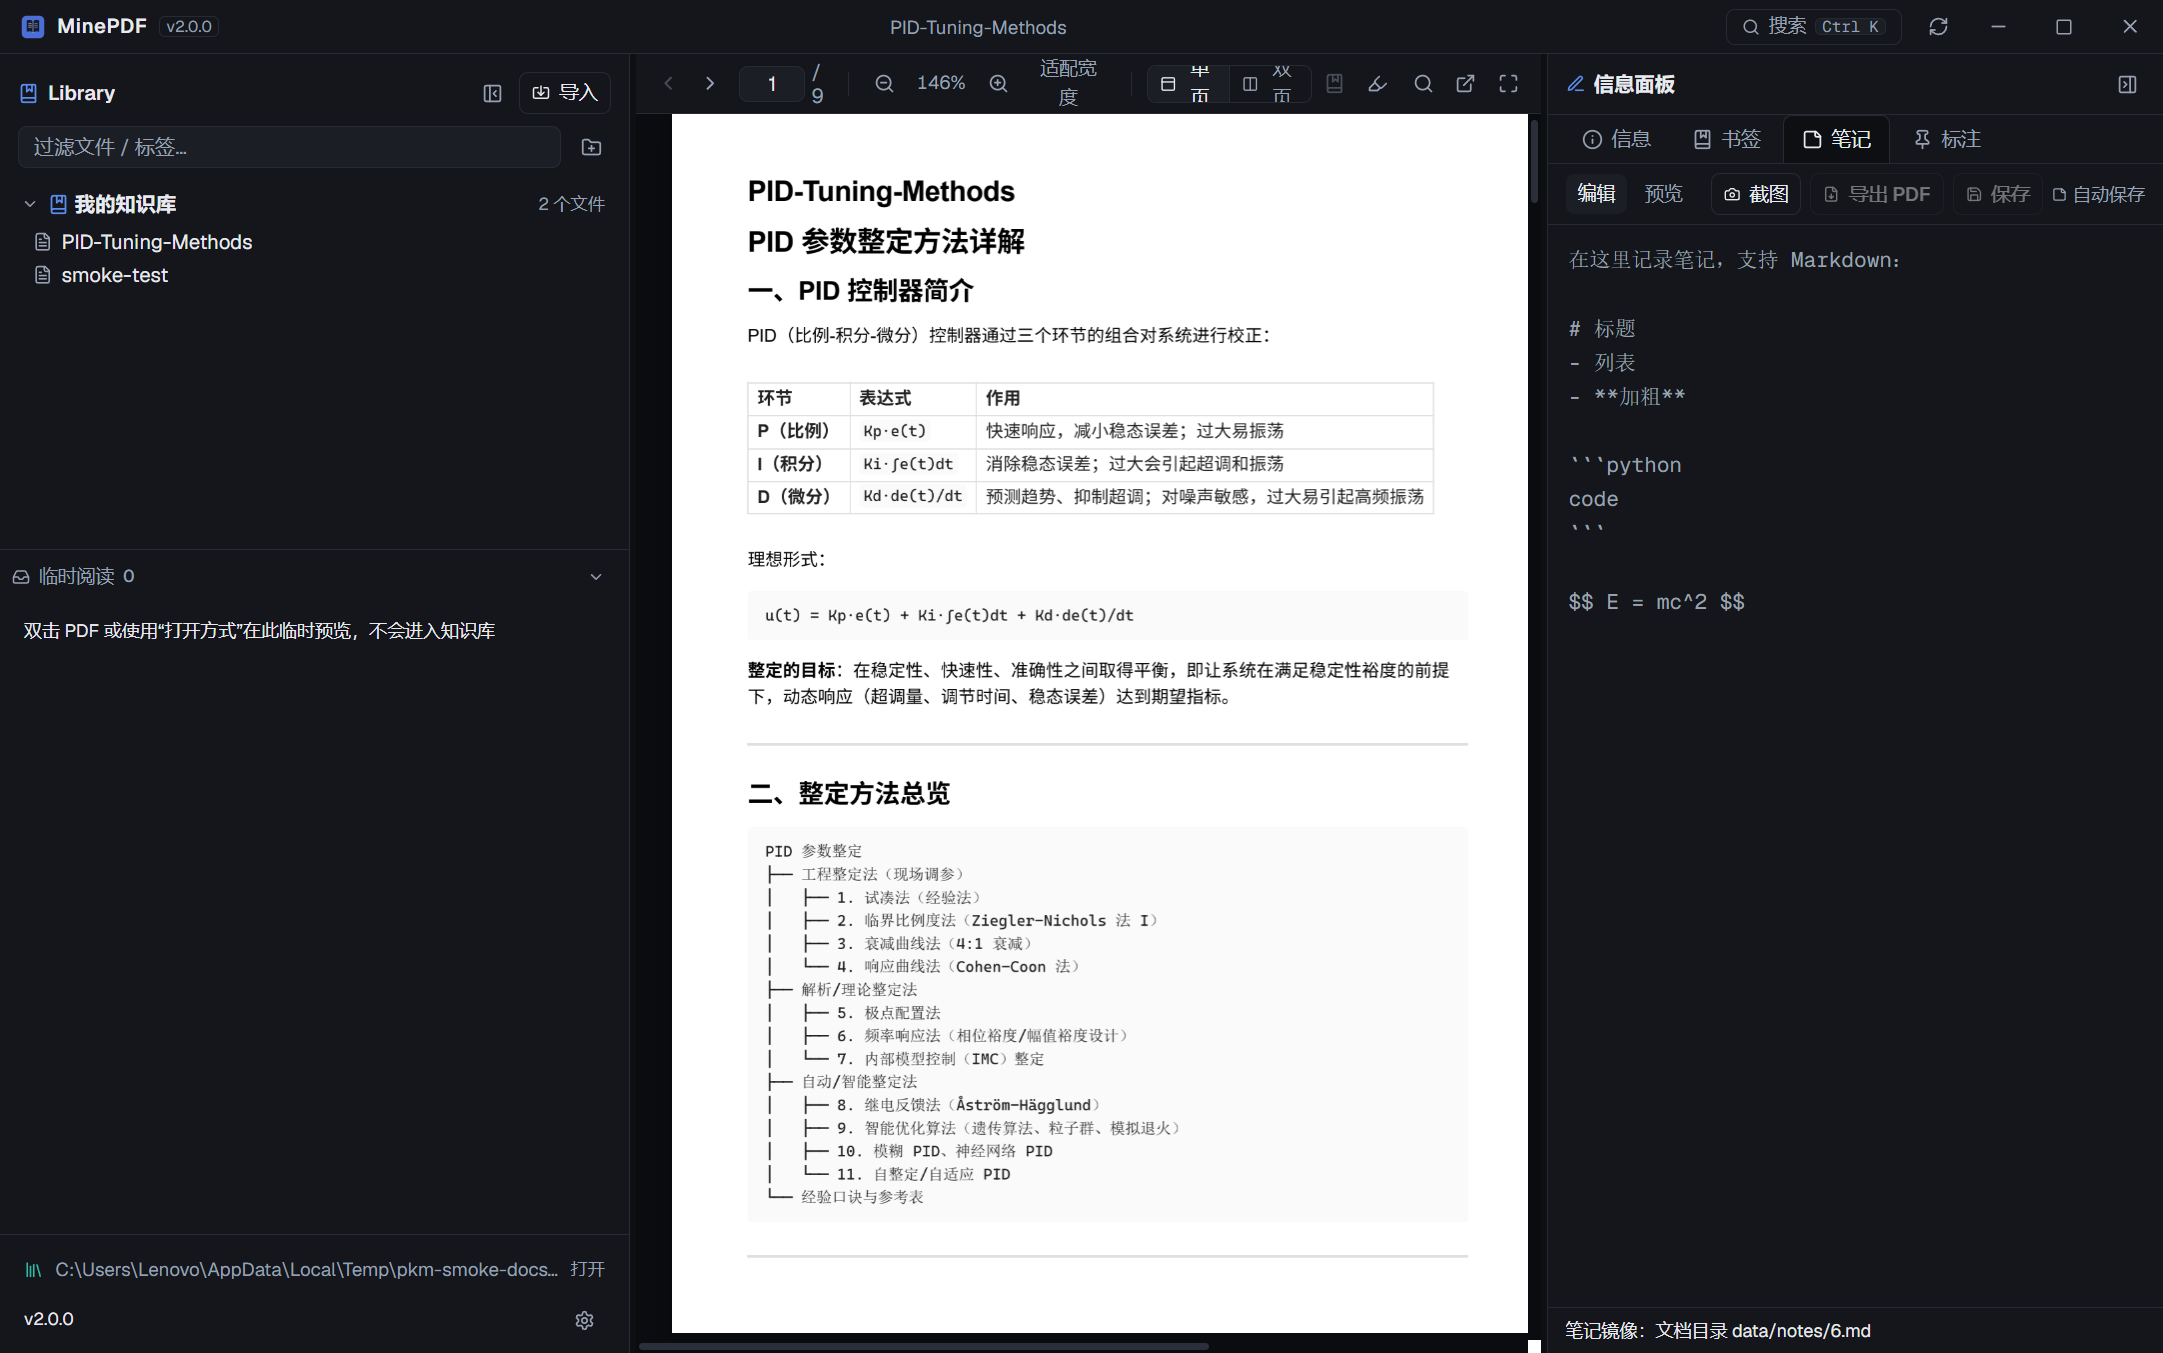
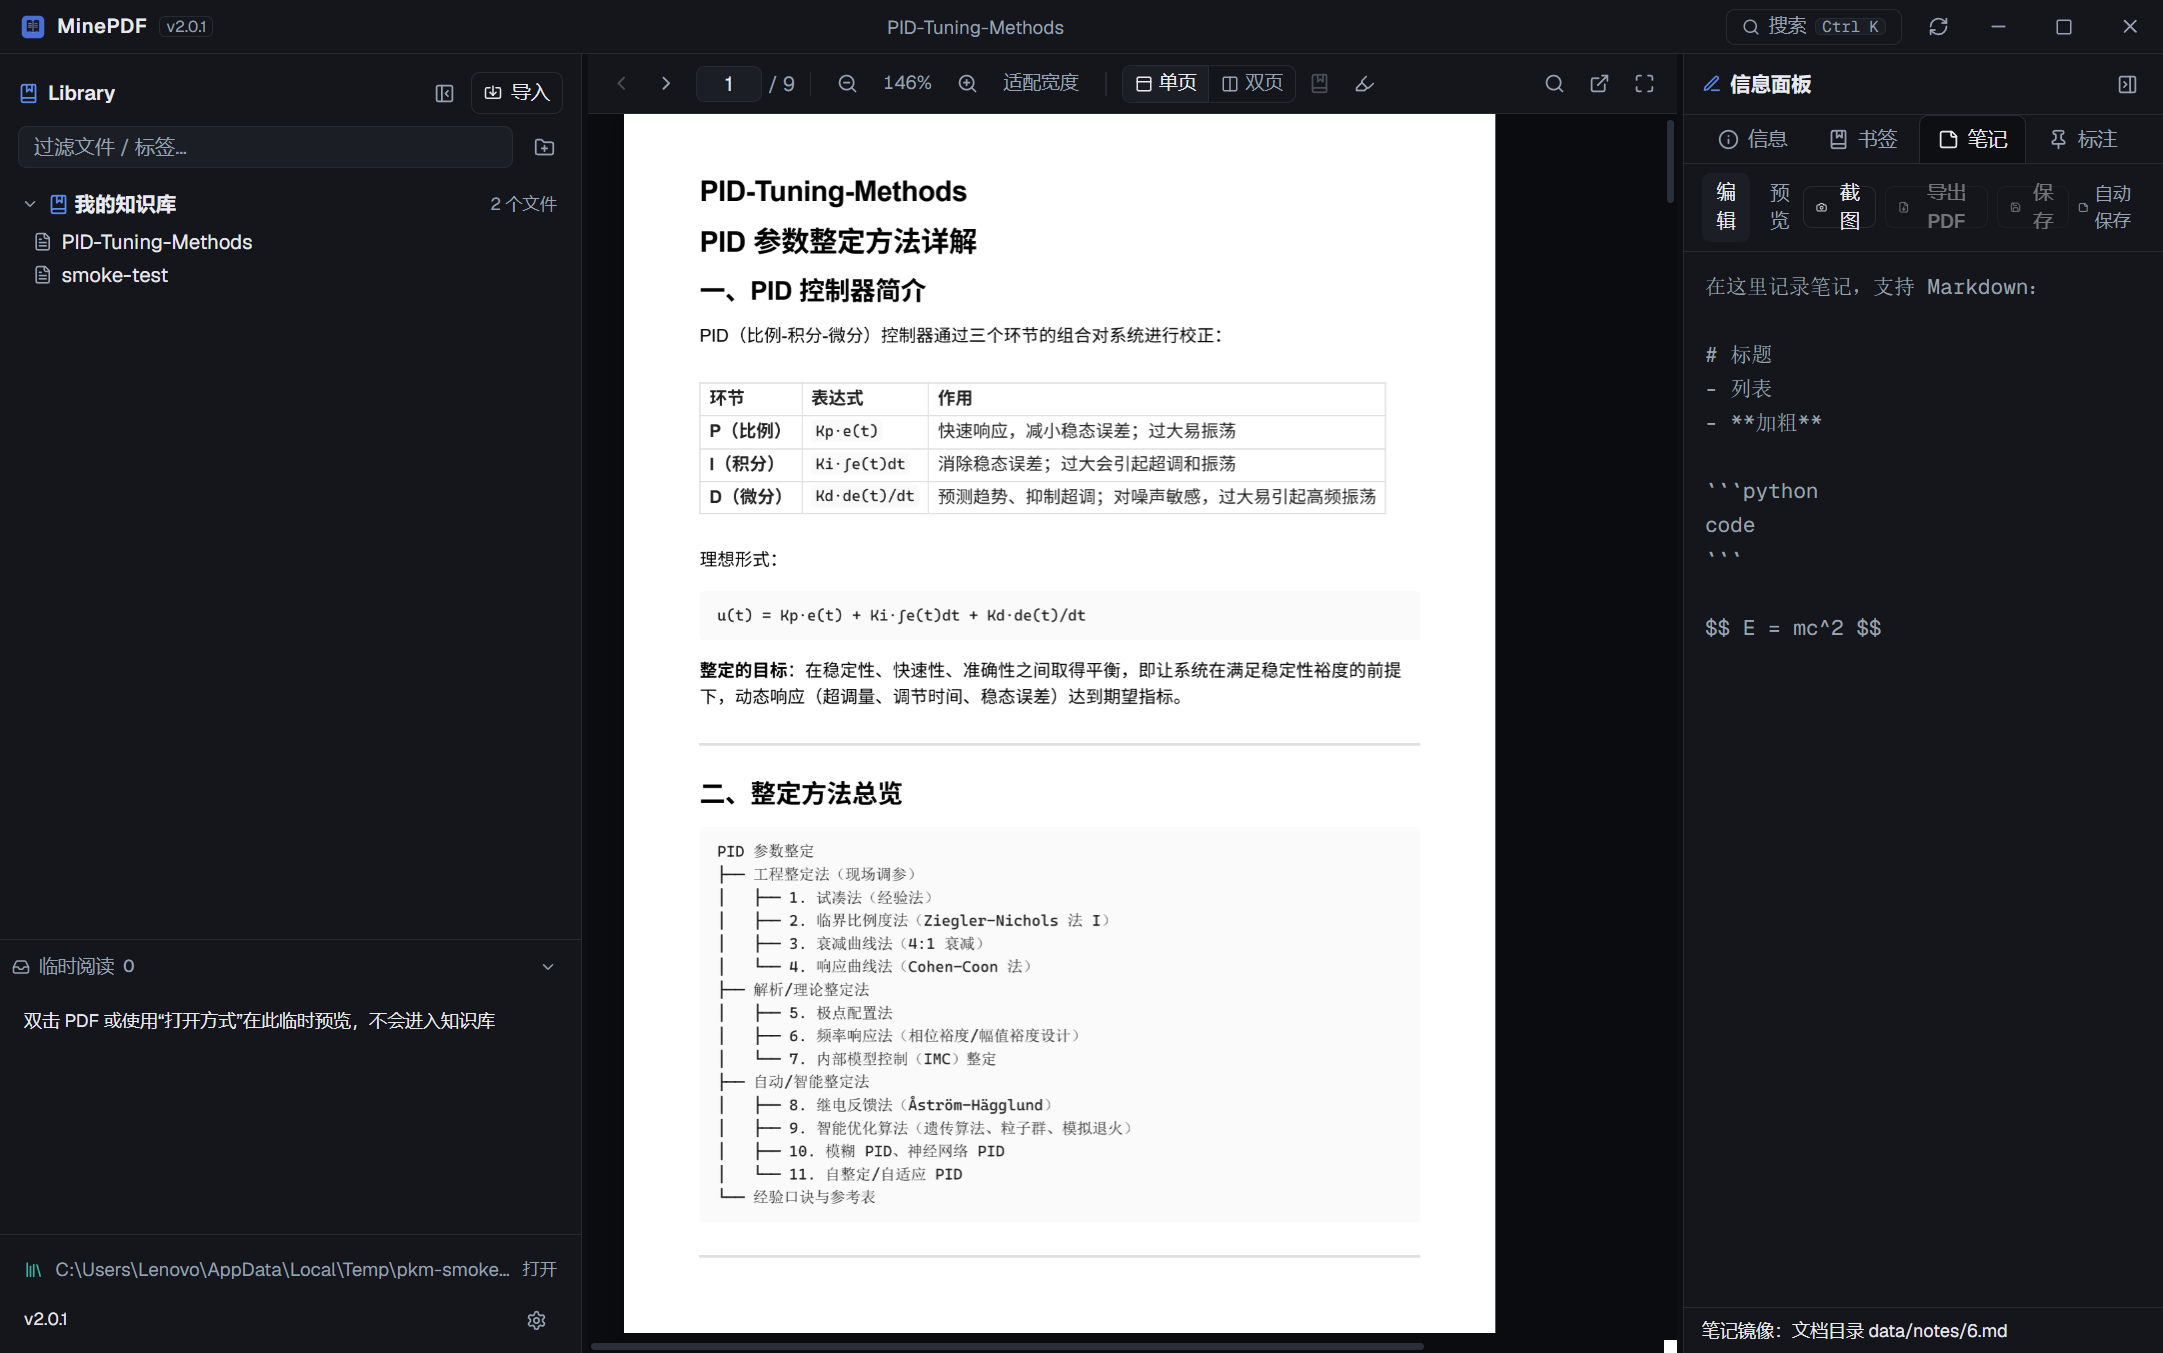
fix: 移除低清先行渲染，PDF 显示回归自然居中（直接高清渲染 + 整数对齐）

diff --git a/src/components/Viewer/PdfPage.tsx b/src/components/Viewer/PdfPage.tsx
@@ -233,28 +233,8 @@ export function PdfPage({
       return;
     }
 
-    // 2) 低清先行：约 40% 目标分辨率，立即出画面
-    const lowScale = Math.max(0.4, deviceScale * 0.4);
-    const lowKey = pageCacheKey(pdfId, pageNumber, scaleBucket(lowScale));
-    let low = getCachedPage(lowKey);
-    if (!low) {
-      try {
-        const res = await pdfiumRenderQueued(pdfId, pageNumber, lowScale);
-        if (seq !== renderSeqRef.current) return;
-        low = await toImageBitmap(res);
-        putCachedPage(lowKey, low, res.w, res.h);
-      } catch (err) {
-        if (seq === renderSeqRef.current) {
-          // PDFium 渲染失败 → 回退 PDF.js 渲染该页
-          await renderWithPdfjs(vp);
-        }
-        return;
-      }
-    }
-    if (seq !== renderSeqRef.current) return;
-    paintBitmap(low, cssW, cssH);
-
-    // 3) 高清渐进：60ms 防抖，避免缩放过程中重复渲染
+    // 2) 高清直接渲染（PDFium 单页 ~10ms）：首次立即，缩放时 60ms 防抖，
+    //    过渡期由浏览器把旧位图拉伸到新尺寸（自然、不跳变）
     if (timerRef.current) clearTimeout(timerRef.current);
     timerRef.current = setTimeout(async () => {
       timerRef.current = null;
@@ -269,9 +249,12 @@ export function PdfPage({
         hasRenderedRef.current = true;
         await renderTextAndAnnots(vp, seq2);
       } catch {
-        if (seq2 === renderSeqRef.current) setRenderError(true);
+        if (seq2 === renderSeqRef.current) {
+          // PDFium 渲染失败 → 回退 PDF.js 渲染该页
+          await renderWithPdfjs(vp);
+        }
       }
-    }, 60);
+    }, hasRenderedRef.current ? 60 : 0);
   }
 
   /** PDF.js 回退路径：原有渲染逻辑 */
@@ -318,7 +301,10 @@ export function PdfPage({
       data-page-number={pageNumber}
       data-renderer={renderer}
       className="pdf-page-sheet relative shrink-0 overflow-hidden rounded-[2px]"
-      style={{ width: viewport?.width ?? 0, height: viewport?.height ?? 0 }}
+      style={{
+        width: viewport ? Math.floor(viewport.width) : 0,
+        height: viewport ? Math.floor(viewport.height) : 0,
+      }}
     >
       <canvas ref={canvasRef} className="block" />
       <div ref={textRef} className="textLayer" />

diff --git a/electron/main.ts b/electron/main.ts
@@ -372,6 +372,27 @@ async function createMainWindow(): Promise<BrowserWindow> {
                   })()
                 `);
                 console.log('[capture] renderDiag', JSON.stringify(renderDiag));
+                const geomDiag = await win.webContents.executeJavaScript(`
+                  (() => {
+                    const sc = document.querySelector('[data-pan-scroll]');
+                    const sheet = document.querySelector('.pdf-page-sheet');
+                    if (!sc || !sheet) return { sc: !!sc, sheet: !!sheet };
+                    const sr = sc.getBoundingClientRect();
+                    const r = sheet.getBoundingClientRect();
+                    const canvas = sheet.querySelector('canvas');
+                    const text = sheet.querySelector('.textLayer');
+                    const cr = canvas ? canvas.getBoundingClientRect() : null;
+                    const tr = text ? text.getBoundingClientRect() : null;
+                    return {
+                      scroll: { left: sr.left, top: sr.top, w: sr.width, h: sr.height, sl: sc.scrollLeft, st: sc.scrollTop },
+                      sheet: { left: +r.left.toFixed(1), top: +r.top.toFixed(1), w: +r.width.toFixed(1), h: +r.height.toFixed(1) },
+                      canvas: cr ? { left: +cr.left.toFixed(1), top: +cr.top.toFixed(1), w: +cr.width.toFixed(1), h: +cr.height.toFixed(1), backing: canvas.width + 'x' + canvas.height } : null,
+                      text: tr ? { left: +tr.left.toFixed(1), top: +tr.top.toFixed(1), w: +tr.width.toFixed(1), h: +tr.height.toFixed(1), spans: text.querySelectorAll('span').length } : null,
+                      centeredInScroll: Math.abs(r.left + r.width / 2 - (sr.left + sr.width / 2)) < 2,
+                    };
+                  })()
+                `);
+                console.log('[capture] geomDiag', JSON.stringify(geomDiag));
                 // 应用内性能诊断：PDFium IPC 渲染真实 PDF 的每页耗时
                 const perfDiag = await win.webContents.executeJavaScript(`
                   (async () => {
